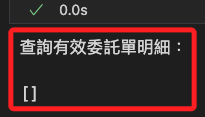
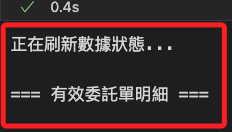
Commit on 2024-12-21 20:53:04

diff --git a/D74_永豐/23_取消委託.md b/D74_永豐/23_取消委託.md
@@ -75,7 +75,31 @@ _寫入模組中再進行調用_
 
 ## 實作
 
-1. 調用函數取消所有有效委託單；會先輸出有效委託單明細，然後遍歷委託單並進行取消委託。
+1. 載入模組並進行登入。
+
+    ```python
+    # 載入自訂模組
+    import MyShioaji as msj
+    # 登入
+    api = msj.login_Shioaji()
+    ```
+
+    ![](images/img_116.png)
+
+<br>
+
+2. 查詢當前有效委託。
+
+    ```python
+    # 列出當前有效委託單
+    valid_trades = msj.list_current_orders(api)
+    ```
+
+    ![](images/img_117.png)
+
+<br>
+
+3. 取消全部有效委託單；會先輸出有效委託單明細，然後遍歷委託單並進行取消委託。
 
     ```python
     # 取消所有有效委託單
@@ -83,6 +107,17 @@ _寫入模組中再進行調用_
     ```
 
     ![](images/img_51.png)
+
+<br>
+
+4. 可再次調用查詢函數。
+
+    ```python
+    # 列出當前有效委託單
+    valid_trades = msj.list_current_orders(api)
+    ```
+
+    ![](images/img_54.png)
 
 <br>
 
@@ -143,18 +178,6 @@ _訊息說明_
         deals=[]
     )
     ```
-
-<br>
-
-## 確認委託狀態
-
-1. 取消之後，可再次查詢當前有效的委託單。
-
-    ```python
-    valid_trades = msj.list_current_orders(api)
-    ```
-
-    ![](images/img_54.png)
 
 <br>
 
